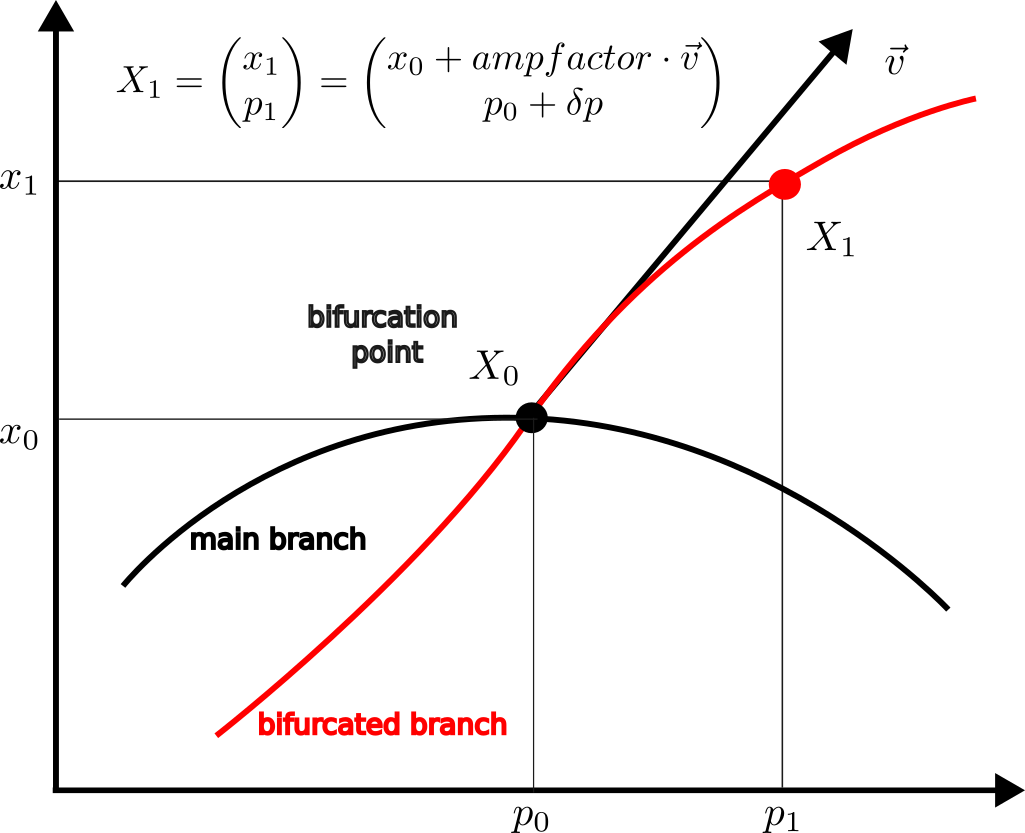
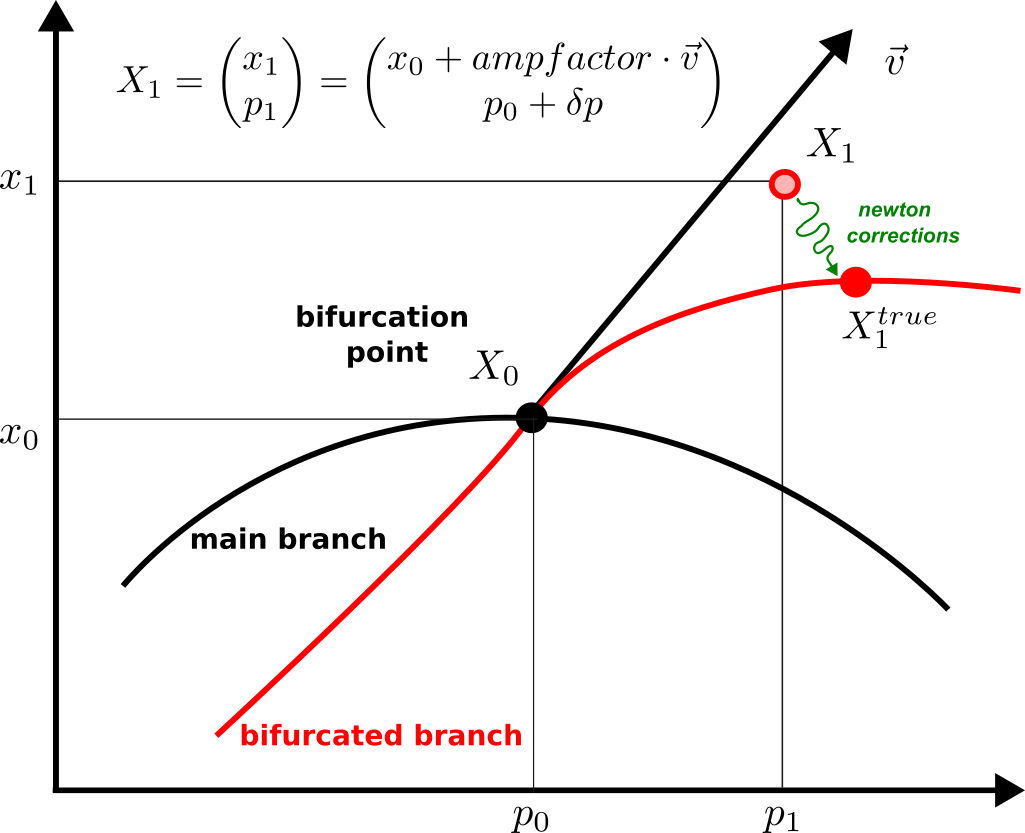
docs: improve part on aBS

diff --git a/docs/src/tutorials/tutorials2b.md b/docs/src/tutorials/tutorials2b.md
@@ -250,36 +250,35 @@ We have the following information about the branch of hexagons
 ```julia
 julia> br
 ┌─ Curve type: EquilibriumCont
- ├─ Number of points: 66
- ├─ Type of vectors: CuArray{Float64, 2, CUDA.DeviceMemory}
- ├─ Parameter l starts at -0.15, ends at 0.005
- ├─ Algo: PALC
- └─ Special points:
+├─ Number of points: 66
+├─ Type of vectors: CuArray{Float64, 2, CUDA.DeviceMemory}
+├─ Parameter l starts at -0.15, ends at 0.005
+├─ Algo: PALC
+└─ Special points:
 
-- #  1,       nd at l ≈ -0.21527227 ∈ (-0.21528429, -0.21527227), |δp|=1e-05, [   guessL], δ = ( 2,  0), step =  17
-- #  2,       nd at l ≈ -0.21473544 ∈ (-0.21478790, -0.21473544), |δp|=5e-05, [   guessL], δ = ( 2,  0), step =  18
-- #  3,       nd at l ≈ -0.21250580 ∈ (-0.21262132, -0.21250580), |δp|=1e-04, [   guessL], δ = ( 2,  0), step =  20
-- #  4,       nd at l ≈ -0.21049751 ∈ (-0.21064704, -0.21049751), |δp|=1e-04, [    guess], δ = ( 2,  0), step =  21
-- #  5,       nd at l ≈ -0.20955332 ∈ (-0.20971589, -0.20955332), |δp|=2e-04, [   guessL], δ = ( 4,  0), step =  22
-- #  6,       bp at l ≈ -0.20586004 ∈ (-0.20606348, -0.20586004), |δp|=2e-04, [   guessL], δ = ( 1,  0), step =  24
-- #  7,       nd at l ≈ -0.19890182 ∈ (-0.19915853, -0.19890182), |δp|=3e-04, [   guessL], δ = ( 2,  0), step =  26
-- #  8,       nd at l ≈ -0.19864215 ∈ (-0.19890182, -0.19864215), |δp|=3e-04, [    guess], δ = ( 2,  0), step =  27
-- #  9,       nd at l ≈ -0.18708961 ∈ (-0.18740461, -0.18708961), |δp|=3e-04, [   guessL], δ = ( 2,  0), step =  30
-- # 10,       nd at l ≈ -0.17710705 ∈ (-0.17745465, -0.17710705), |δp|=3e-04, [   guessL], δ = ( 3,  0), step =  32
-- # 11,       bp at l ≈ -0.17357172 ∈ (-0.17392941, -0.17357172), |δp|=4e-04, [   guessL], δ = ( 1,  0), step =  33
-- # 12,       bp at l ≈ -0.15063090 ∈ (-0.15103338, -0.15063090), |δp|=4e-04, [   guessL], δ = (-1,  0), step =  37
-- # 13,       nd at l ≈ -0.15022700 ∈ (-0.15063090, -0.15022700), |δp|=4e-04, [    guess], δ = (-3,  0), step =  38
-- # 14,       nd at l ≈ -0.14079246 ∈ (-0.14120844, -0.14079246), |δp|=4e-04, [    guess], δ = (-2,  0), step =  40
-- # 15,       nd at l ≈ -0.11282985 ∈ (-0.11327206, -0.11282985), |δp|=4e-04, [    guess], δ = (-4,  0), step =  45
-- # 16,       nd at l ≈ -0.09040810 ∈ (-0.09086196, -0.09040810), |δp|=5e-04, [   guessL], δ = (-6,  0), step =  49
-- # 17,       nd at l ≈ -0.07120307 ∈ (-0.07166296, -0.07120307), |δp|=5e-04, [   guessL], δ = (-3,  0), step =  52
-- # 18,       nd at l ≈ -0.06198642 ∈ (-0.06244792, -0.06198642), |δp|=5e-04, [   guessL], δ = (-2,  0), step =  54
-- # 19,       nd at l ≈ -0.05366990 ∈ (-0.05413224, -0.05366990), |δp|=5e-04, [   guessL], δ = (-2,  0), step =  56
-- # 20,       nd at l ≈ -0.02503291 ∈ (-0.02549304, -0.02503291), |δp|=5e-04, [   guessL], δ = (-2,  0), step =  60
-- # 21,       nd at l ≈ -0.00628734 ∈ (-0.00674105, -0.00628734), |δp|=5e-04, [    guess], δ = (-2,  0), step =  63
-- # 22,       nd at l ≈ +0.00004100 ∈ (-0.00040962, +0.00004100), |δp|=5e-04, [   guessL], δ = ( 2,  0), step =  64
-- # 23,       nd at l ≈ +0.00500000 ∈ (+0.00500000, +0.00500000), |δp|=0e+00, [    guess], δ = ( 9,  0), step =  65
-- # 24, endpoint at l ≈ +0.00500000,                                                                     step =  65
+┌────┬────────────┬─────────────┬────────────────────────────┬───────────┬─────────────┬──────────┬──────┐
+│ Nb │    type    │      l      │          interval          │ precision │   status    │    δ     │ step │
+├────┼────────────┼─────────────┼────────────────────────────┼───────────┼─────────────┼──────────┼──────┤
+│  1 │         nd │ -0.21527227 │ (-0.21528429, -0.21527227) │     1e-05 │      guessL │ ( 2,  0) │   17 │
+│  2 │         nd │ -0.21473544 │ (-0.21478790, -0.21473544) │     5e-05 │      guessL │ ( 2,  0) │   18 │
+│  3 │         nd │ -0.21250579 │ (-0.21262131, -0.21250579) │     1e-04 │      guessL │ ( 2,  0) │   20 │
+│  4 │         nd │ -0.21049749 │ (-0.21064703, -0.21049749) │     1e-04 │       guess │ ( 2,  0) │   21 │
+│  5 │         nd │ -0.20955330 │ (-0.20971587, -0.20955330) │     2e-04 │      guessL │ ( 4,  0) │   22 │
+│  6 │         nd │ -0.20626493 │ (-0.20646446, -0.20626493) │     2e-04 │      guessL │ ( 6,  0) │   24 │
+│  7 │         nd │ -0.19890095 │ (-0.19915812, -0.19890095) │     3e-04 │      guessL │ ( 4,  0) │   26 │
+│  8 │         nd │ -0.18708615 │ (-0.18740105, -0.18708615) │     3e-04 │       guess │ ( 2,  0) │   29 │
+│  9 │         nd │ -0.17710265 │ (-0.17745027, -0.17710265) │     3e-04 │      guessL │ ( 4,  0) │   31 │
+│ 10 │         nd │ -0.15022069 │ (-0.15062407, -0.15022069) │     4e-04 │       guess │ (-4,  0) │   36 │
+│ 11 │         nd │ -0.14078586 │ (-0.14120185, -0.14078586) │     4e-04 │       guess │ (-2,  0) │   38 │
+│ 12 │         nd │ -0.11282285 │ (-0.11326507, -0.11282285) │     4e-04 │       guess │ (-4,  0) │   43 │
+│ 13 │         nd │ -0.09040091 │ (-0.09085478, -0.09040091) │     5e-04 │      guessL │ (-6,  0) │   47 │
+│ 14 │         nd │ -0.07119578 │ (-0.07165567, -0.07119578) │     5e-04 │      guessL │ (-4,  0) │   50 │
+│ 15 │         nd │ -0.06197910 │ (-0.06244061, -0.06197910) │     5e-04 │      guessL │ (-2,  0) │   52 │
+│ 16 │         nd │ -0.05366257 │ (-0.05412492, -0.05366257) │     5e-04 │      guessL │ (-2,  0) │   54 │
+│ 17 │         nd │ -0.02502562 │ (-0.02548575, -0.02502562) │     5e-04 │      guessL │ (-2,  0) │   58 │
+│ 18 │         nd │ -0.00628013 │ (-0.00673386, -0.00628013) │     5e-04 │       guess │ (-2,  0) │   61 │
+│ 19 │   endpoint │ -0.00524391 │                            │           │             │          │   62 │
+└────┴────────────┴─────────────┴────────────────────────────┴───────────┴─────────────┴──────────┴──────┘
 ```
 
 ## Automatic branch switching on the GPU

diff --git a/docs/src/intro-abs.md b/docs/src/intro-abs.md
@@ -9,16 +9,19 @@ The precise definition of the methods is given in [Branch switching (branch poin
 
 ## (Automatic) branch switching of simple bifurcation points
 
-Unlike other continuation software (Auto07p, MatCont, pde2path), `BifurcationKit` has methods for automatic branch switching where the user is only asked to provide the parameter distance from a point on the bifurcated branch to the bifurcation point. Let us explain this in more detail using the following figure.
+Unlike other continuation software (Auto07p, MatCont, pde2path), `BifurcationKit` has methods for automatic branch switching where the user is only asked to provide the parameter distance from a point on the bifurcated branch to the bifurcation point (**and not the amplitude in the bifurcating direction**). Let us explain this in more detail using the following figure.
 
 ![](abs.png)
 
-Knowing a bifurcation point $X_0 = (x_0, p_0)$ on a branch `br`, we want to find the bifurcated (red) curve. To this, we need an initial guess $X_1$ on the bifurcated curve. Usually, the tangent $\vec v$ can be found which leaves two parameters `δp, ampfactor` to be determined. Note that both parameters needs to be small. For example, the default values are `δp = ds` (`ds` is in `ContinuationPar` ) and `ampfactor = 0.1`.
+Knowing a bifurcation point $X_0 = (x_0, p_0)$ on a branch `br`, we want to find the bifurcated (red) curve. To this, we need an **initial guess** $X_1$ on the bifurcated curve. Usually, the tangent $\vec v$ can be found which leaves two parameters `δp, ampfactor` to be determined. Note that both parameters needs to be small. For example, the default values are `δp = ds` (`ds` is in `ContinuationPar` ) and `ampfactor = 0.1`.
 
 - In case of **manual branch switching**, the user is asked to provide the couple `δp, ampfactor`. This can be tricky because minute errors in `δp, ampfactor` can imped newton correction. This is for example used in [Lur'e problem](@ref pdlure) for period-doubling with Trapezoid method. Thus, the general method is like
 ```
 continuation(br, ind_bif, options_cont; 
     δp = 0.1, ampfactor = 0.1,
+    # this does not compute the normal form
+    # it just compute the tangent direction
+    normal_form_kwargs = (detailed = Val(false),),
     kwargs...)
 ```
 
@@ -32,12 +35,12 @@ When the bifurcation diagram is very stiff, **automatic branch switching** may f
 ```
 continuation(br, ind_bif, options_cont; 
     δp = 0.1, ampfactor = 0.1,
-    use_normal_form = false,
+    normal_form_kwargs = (detailed = Val(false),),
     kwargs...)
 ```
 
 !!! tip "Manual branch switching"
-    Manual branch switching is automatically used by `BifurcationKit` when the normal form of the bifurcation point is not implemented (like PD normal form for Trapezoid method). You can force `BifurcationKit` to use it using the `use_normal_form = false` key word.
+    Manual branch switching is automatically used by `BifurcationKit` when the normal form of the bifurcation point is not implemented (like PD normal form for Trapezoid method). You can force `BifurcationKit` to use it using the `normal_form_kwargs = (detailed = Val(false),)` key word.
 
 ## Branch switching of non-simple bifurcation points
 

diff --git a/docs/src/tutorials/ode/tutorialsODE-PD.md b/docs/src/tutorials/ode/tutorialsODE-PD.md
@@ -44,7 +44,7 @@ We first compute the branch of equilibria
 
 ```@example TUTLURE
 # continuation options
-opts_br = BK.ContinuationPar(p_min = -1.4, p_max = 1.8, nev = 3)
+opts_br = BK.ContinuationPar(p_min = -1.4, p_max = 1.8, n_inversion = 6)
 
 # computation of the branch
 br = BK.continuation(prob_bif, BK.PALC(), opts_br)
@@ -89,7 +89,7 @@ Continuation of periodic orbits from the Hopf point:
 
 ```@example TUTLURE
 # continuation parameters
-opts_po_cont = BK.ContinuationPar(opts_br, dsmax = 0.03, dsmin = 1e-4, max_steps = 80, tol_stability = 1e-4, plot_every_step = 20)
+opts_po_cont = BK.ContinuationPar(opts_br, dsmax = 0.03, max_steps = 80, tol_stability = 1e-4, plot_every_step = 20)
 
 br_po = BK.continuation(
 	br, 1, opts_po_cont,
@@ -105,7 +105,7 @@ scene = plot(br, br_po)
 Note that you can compute the PD normal form
 
 ```@example TUTLURE
-pdnf = BK.get_normal_form(br_po, 1; prm=Val(true))
+pdnf = BK.get_normal_form(br_po, 1)
 ```
 
 We provide Automatic Branch Switching from the PD point and computing the bifurcated branch is as simple as:

diff --git a/docs/src/abs-from-eq.md b/docs/src/abs-from-eq.md
@@ -16,7 +16,6 @@ You can perform automatic branch switching by calling `continuation` with the fo
 continuation(br::AbstractResult{Tkind, Tprob}, ind_bif::Int, 
 	options_cont::ContinuationPar = br.contparams;
 	δp = nothing, ampfactor::Real = 1,
-	use_normal_form = true,
 	usedeflation::Bool = false,
 	kwargs...)
 ```
